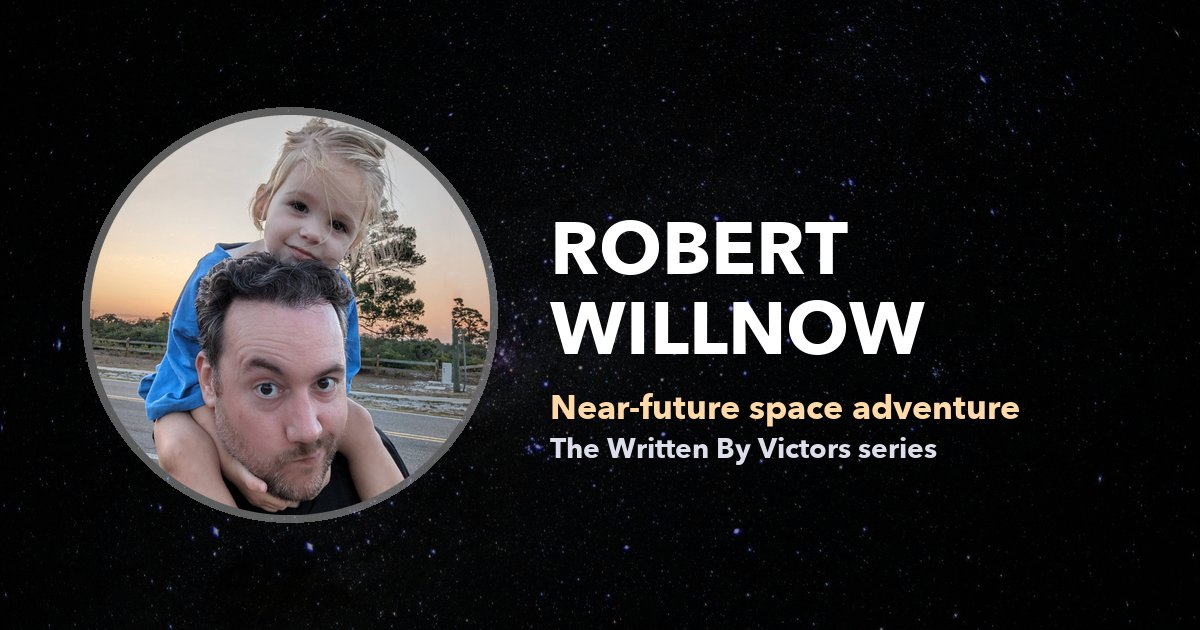
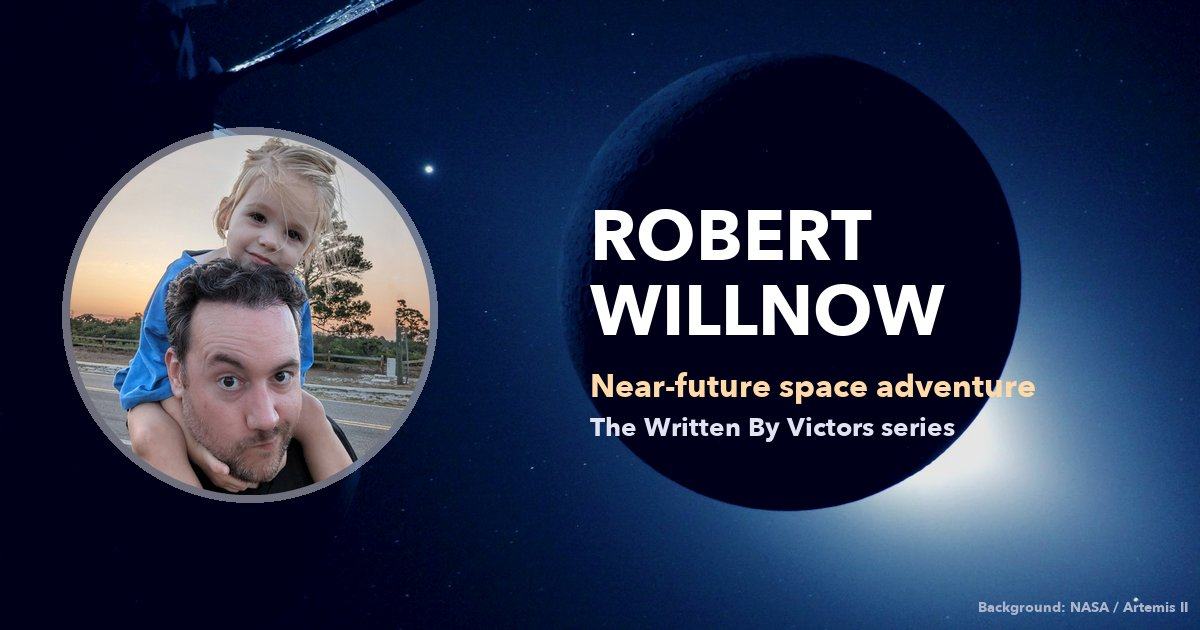
hero swap

diff --git a/style.css b/style.css
@@ -262,8 +262,9 @@ header a.brand {
 }
 
 /* ---------- Homepage hero ---------- */
+/* NASA Artemis II, "Orion and the Eclipse" (art002e016318). Smaller file on phones. */
 div.header {
-    background: #05060f url('art002-e-28292.jpg') no-repeat center / cover;
+    background: #050a1f url('hero-eclipse-960.jpg') no-repeat 62% 50% / cover;
     display: flex;
     align-items: center;
     justify-content: center;
@@ -616,6 +617,11 @@ footer a:hover {
     color: #ffd2a3;
 }
 
+footer .photo-credit {
+    font-size: .8rem;
+    opacity: .75;
+}
+
 span.material-symbols-outlined {
     font-size: 1em;
 }
@@ -655,6 +661,10 @@ span.material-symbols-outlined {
     .site-nav a {
         font-size: .9rem;
         padding: 12px 14px;
+    }
+
+    div.header {
+        background-image: url('hero-eclipse.jpg');
     }
 
     .hero img {

diff --git a/index.html b/index.html
@@ -580,6 +580,7 @@
 
     <!-- Footer -->
     <footer>
+        <p class="photo-credit">Header photo: &ldquo;Orion and the Eclipse,&rdquo; Artemis II, April 6, 2026. Credit: NASA (art002e016318).</p>
         <div class="copyright">
             <p>&copy;
                 <script>document.write(new Date().getFullYear())</script> ZingLab. All rights reserved.
